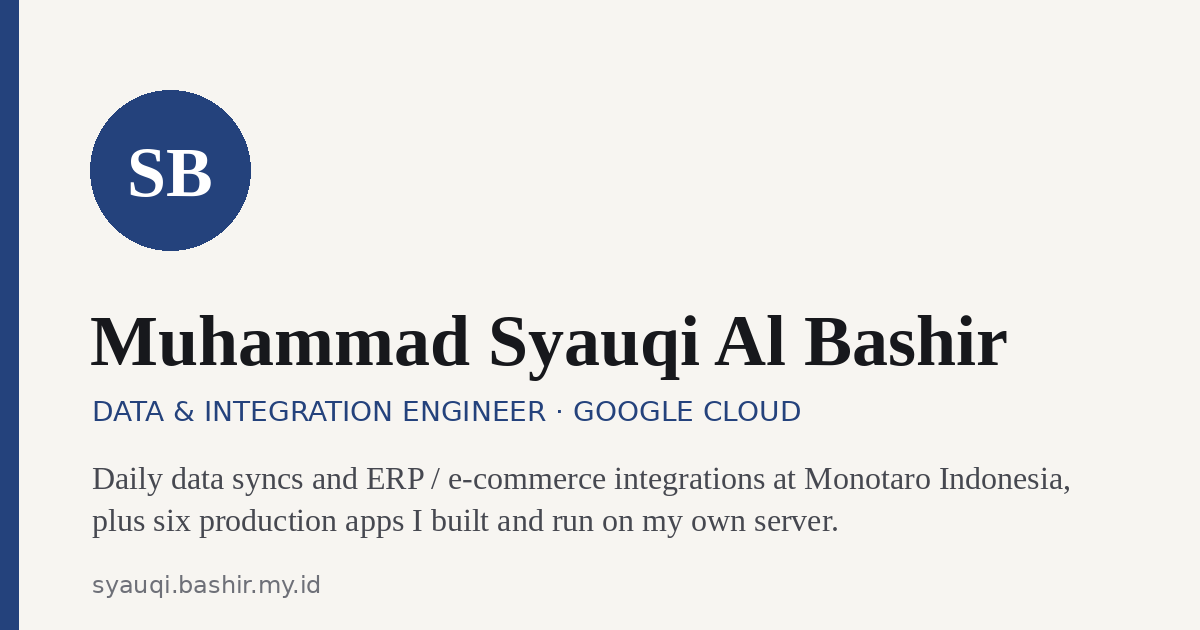
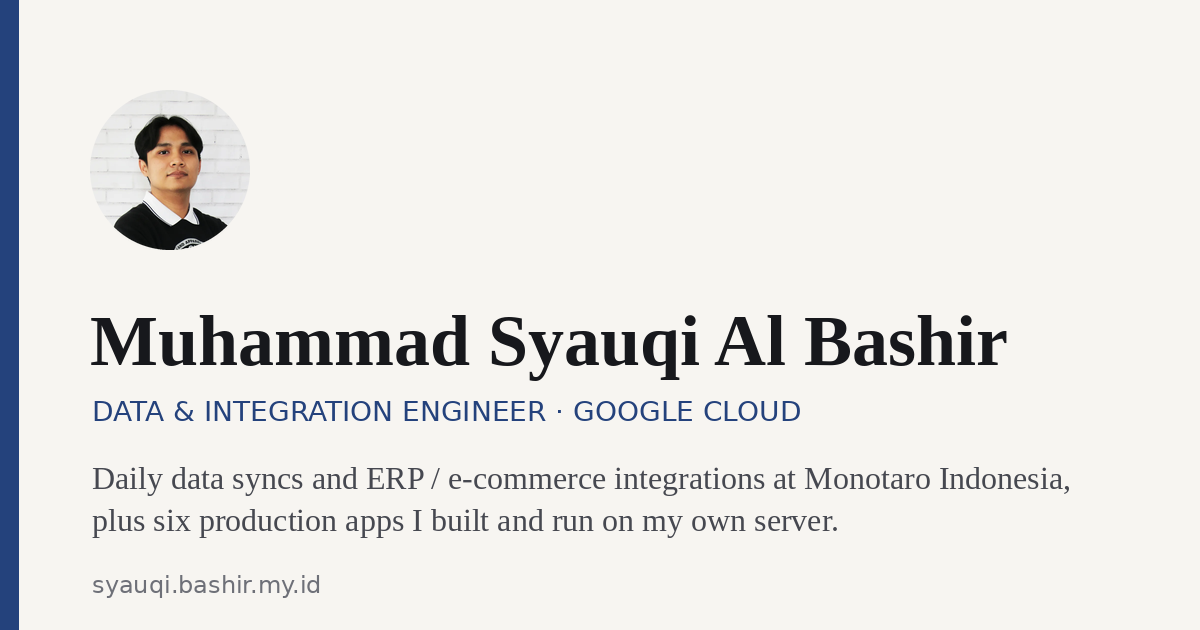
Add the owner's photo (hero + link preview); fix photo aspect ratio on phones
Claude-Session: https://claude.ai/code/session_01UjSzpANB8MGzxePHayiTj4

Changed region(s): [[0.0617, 0.1206, 0.2158, 0.4222]]

diff --git a/site/index.html b/site/index.html
@@ -18,10 +18,10 @@
 <meta name="twitter:card" content="summary_large_image">
 <link rel="icon" href="assets/favicon.svg" type="image/svg+xml">
 <link rel="apple-touch-icon" href="assets/apple-touch-icon.png">
-<link rel="stylesheet" href="assets/css/site.css?v=5ca17b1867">
-<link rel="stylesheet" href="assets/css/accents.css?v=5ca17b1867">
-<script src="assets/js/theme.js?v=5ca17b1867"></script>
-<script type="module" src="assets/js/main.js?v=5ca17b1867"></script>
+<link rel="stylesheet" href="assets/css/site.css?v=48acdcffa0">
+<link rel="stylesheet" href="assets/css/accents.css?v=48acdcffa0">
+<script src="assets/js/theme.js?v=48acdcffa0"></script>
+<script type="module" src="assets/js/main.js?v=48acdcffa0"></script>
 </head>
 <body>
 <a class="skip" href="#main">Skip to content</a>
@@ -50,7 +50,7 @@
   <a class="btn" href="https://wa.me/6282272672097" rel="noopener" target="_blank"><svg class="i" viewBox="0 0 24 24" fill="none" stroke="currentColor" stroke-width="1.8" stroke-linecap="round" stroke-linejoin="round" aria-hidden="true"><path d="M21 12a8.5 8.5 0 0 1-12.6 7.4L3 21l1.6-5.4A8.5 8.5 0 1 1 21 12z"/></svg>WhatsApp</a>
 </div>
   </div>
-  <div class="hero-pic"><span class="mono lg" aria-hidden="true">SB</span></div>
+  <div class="hero-pic"><img class="photo" src="assets/img/photo.webp" alt="Photo of Muhammad Syauqi Al Bashir" width="320" height="320"></div>
 </section>
 
 <section class="wrap numbers" aria-label="Key numbers"><ul><li><b>7–9M</b><span>records synced per day by batch jobs I built</span></li><li><b>Billions</b><span>of rupiah in sales through my SAP ↔ Magento e-catalog</span></li><li><b>6</b><span>live apps I designed and run on one 2 GB server</span></li><li><b>97.90</b><span>top score of my Hacktiv8 full-stack batch</span></li></ul></section>

diff --git a/site/assets/css/site.css b/site/assets/css/site.css
@@ -70,7 +70,7 @@ button { font: inherit; color: inherit; }
 .mono { display: inline-grid; place-items: center; border-radius: 50%; background: var(--ink); color: var(--bg); font-family: var(--serif); font-weight: 600; letter-spacing: .02em; flex: none; }
 .mono.sm { width: 32px; height: 32px; font-size: .8rem; }
 .mono.lg { width: min(280px, 62vw); aspect-ratio: 1; font-size: clamp(3rem, 9vw, 5.4rem); background: linear-gradient(150deg, var(--accent), color-mix(in srgb, var(--accent) 55%, var(--ink))); color: var(--accent-ink); box-shadow: var(--shadow-lg); }
-.photo { width: min(300px, 64vw); aspect-ratio: 1; object-fit: cover; border-radius: 50%; box-shadow: var(--shadow-lg); }
+.photo { width: min(300px, 64vw); height: auto; aspect-ratio: 1; object-fit: cover; border-radius: 50%; box-shadow: var(--shadow-lg); }
 
 /* hero */
 .hero { display: grid; grid-template-columns: 1.35fr .65fr; gap: 48px; align-items: center; padding-top: clamp(40px, 8vw, 96px); padding-bottom: 40px; }

diff --git a/site/projects/couple-suits.html b/site/projects/couple-suits.html
@@ -18,10 +18,10 @@
 <meta name="twitter:card" content="summary_large_image">
 <link rel="icon" href="../assets/favicon.svg" type="image/svg+xml">
 <link rel="apple-touch-icon" href="../assets/apple-touch-icon.png">
-<link rel="stylesheet" href="../assets/css/site.css?v=5ca17b1867">
-<link rel="stylesheet" href="../assets/css/accents.css?v=5ca17b1867">
-<script src="../assets/js/theme.js?v=5ca17b1867"></script>
-<script type="module" src="../assets/js/main.js?v=5ca17b1867"></script>
+<link rel="stylesheet" href="../assets/css/site.css?v=48acdcffa0">
+<link rel="stylesheet" href="../assets/css/accents.css?v=48acdcffa0">
+<script src="../assets/js/theme.js?v=48acdcffa0"></script>
+<script type="module" src="../assets/js/main.js?v=48acdcffa0"></script>
 </head>
 <body data-p="couple-suits">
 <a class="skip" href="#main">Skip to content</a>

diff --git a/site/projects/clipstudio.html b/site/projects/clipstudio.html
@@ -18,10 +18,10 @@
 <meta name="twitter:card" content="summary_large_image">
 <link rel="icon" href="../assets/favicon.svg" type="image/svg+xml">
 <link rel="apple-touch-icon" href="../assets/apple-touch-icon.png">
-<link rel="stylesheet" href="../assets/css/site.css?v=5ca17b1867">
-<link rel="stylesheet" href="../assets/css/accents.css?v=5ca17b1867">
-<script src="../assets/js/theme.js?v=5ca17b1867"></script>
-<script type="module" src="../assets/js/main.js?v=5ca17b1867"></script>
+<link rel="stylesheet" href="../assets/css/site.css?v=48acdcffa0">
+<link rel="stylesheet" href="../assets/css/accents.css?v=48acdcffa0">
+<script src="../assets/js/theme.js?v=48acdcffa0"></script>
+<script type="module" src="../assets/js/main.js?v=48acdcffa0"></script>
 </head>
 <body data-p="clipstudio">
 <a class="skip" href="#main">Skip to content</a>

diff --git a/site/projects/bashgames.html b/site/projects/bashgames.html
@@ -18,10 +18,10 @@
 <meta name="twitter:card" content="summary_large_image">
 <link rel="icon" href="../assets/favicon.svg" type="image/svg+xml">
 <link rel="apple-touch-icon" href="../assets/apple-touch-icon.png">
-<link rel="stylesheet" href="../assets/css/site.css?v=5ca17b1867">
-<link rel="stylesheet" href="../assets/css/accents.css?v=5ca17b1867">
-<script src="../assets/js/theme.js?v=5ca17b1867"></script>
-<script type="module" src="../assets/js/main.js?v=5ca17b1867"></script>
+<link rel="stylesheet" href="../assets/css/site.css?v=48acdcffa0">
+<link rel="stylesheet" href="../assets/css/accents.css?v=48acdcffa0">
+<script src="../assets/js/theme.js?v=48acdcffa0"></script>
+<script type="module" src="../assets/js/main.js?v=48acdcffa0"></script>
 </head>
 <body data-p="bashgames">
 <a class="skip" href="#main">Skip to content</a>

diff --git a/site/projects/jobradar.html b/site/projects/jobradar.html
@@ -18,10 +18,10 @@
 <meta name="twitter:card" content="summary_large_image">
 <link rel="icon" href="../assets/favicon.svg" type="image/svg+xml">
 <link rel="apple-touch-icon" href="../assets/apple-touch-icon.png">
-<link rel="stylesheet" href="../assets/css/site.css?v=5ca17b1867">
-<link rel="stylesheet" href="../assets/css/accents.css?v=5ca17b1867">
-<script src="../assets/js/theme.js?v=5ca17b1867"></script>
-<script type="module" src="../assets/js/main.js?v=5ca17b1867"></script>
+<link rel="stylesheet" href="../assets/css/site.css?v=48acdcffa0">
+<link rel="stylesheet" href="../assets/css/accents.css?v=48acdcffa0">
+<script src="../assets/js/theme.js?v=48acdcffa0"></script>
+<script type="module" src="../assets/js/main.js?v=48acdcffa0"></script>
 </head>
 <body data-p="jobradar">
 <a class="skip" href="#main">Skip to content</a>

diff --git a/site/projects/monotaro.html b/site/projects/monotaro.html
@@ -18,10 +18,10 @@
 <meta name="twitter:card" content="summary_large_image">
 <link rel="icon" href="../assets/favicon.svg" type="image/svg+xml">
 <link rel="apple-touch-icon" href="../assets/apple-touch-icon.png">
-<link rel="stylesheet" href="../assets/css/site.css?v=5ca17b1867">
-<link rel="stylesheet" href="../assets/css/accents.css?v=5ca17b1867">
-<script src="../assets/js/theme.js?v=5ca17b1867"></script>
-<script type="module" src="../assets/js/main.js?v=5ca17b1867"></script>
+<link rel="stylesheet" href="../assets/css/site.css?v=48acdcffa0">
+<link rel="stylesheet" href="../assets/css/accents.css?v=48acdcffa0">
+<script src="../assets/js/theme.js?v=48acdcffa0"></script>
+<script type="module" src="../assets/js/main.js?v=48acdcffa0"></script>
 </head>
 <body data-p="monotaro">
 <a class="skip" href="#main">Skip to content</a>

diff --git a/site/projects/platform.html b/site/projects/platform.html
@@ -18,10 +18,10 @@
 <meta name="twitter:card" content="summary_large_image">
 <link rel="icon" href="../assets/favicon.svg" type="image/svg+xml">
 <link rel="apple-touch-icon" href="../assets/apple-touch-icon.png">
-<link rel="stylesheet" href="../assets/css/site.css?v=5ca17b1867">
-<link rel="stylesheet" href="../assets/css/accents.css?v=5ca17b1867">
-<script src="../assets/js/theme.js?v=5ca17b1867"></script>
-<script type="module" src="../assets/js/main.js?v=5ca17b1867"></script>
+<link rel="stylesheet" href="../assets/css/site.css?v=48acdcffa0">
+<link rel="stylesheet" href="../assets/css/accents.css?v=48acdcffa0">
+<script src="../assets/js/theme.js?v=48acdcffa0"></script>
+<script type="module" src="../assets/js/main.js?v=48acdcffa0"></script>
 </head>
 <body data-p="platform">
 <a class="skip" href="#main">Skip to content</a>

diff --git a/site/projects/finance.html b/site/projects/finance.html
@@ -18,10 +18,10 @@
 <meta name="twitter:card" content="summary_large_image">
 <link rel="icon" href="../assets/favicon.svg" type="image/svg+xml">
 <link rel="apple-touch-icon" href="../assets/apple-touch-icon.png">
-<link rel="stylesheet" href="../assets/css/site.css?v=5ca17b1867">
-<link rel="stylesheet" href="../assets/css/accents.css?v=5ca17b1867">
-<script src="../assets/js/theme.js?v=5ca17b1867"></script>
-<script type="module" src="../assets/js/main.js?v=5ca17b1867"></script>
+<link rel="stylesheet" href="../assets/css/site.css?v=48acdcffa0">
+<link rel="stylesheet" href="../assets/css/accents.css?v=48acdcffa0">
+<script src="../assets/js/theme.js?v=48acdcffa0"></script>
+<script type="module" src="../assets/js/main.js?v=48acdcffa0"></script>
 </head>
 <body data-p="finance">
 <a class="skip" href="#main">Skip to content</a>

diff --git a/site/projects/lyrsync.html b/site/projects/lyrsync.html
@@ -18,10 +18,10 @@
 <meta name="twitter:card" content="summary_large_image">
 <link rel="icon" href="../assets/favicon.svg" type="image/svg+xml">
 <link rel="apple-touch-icon" href="../assets/apple-touch-icon.png">
-<link rel="stylesheet" href="../assets/css/site.css?v=5ca17b1867">
-<link rel="stylesheet" href="../assets/css/accents.css?v=5ca17b1867">
-<script src="../assets/js/theme.js?v=5ca17b1867"></script>
-<script type="module" src="../assets/js/main.js?v=5ca17b1867"></script>
+<link rel="stylesheet" href="../assets/css/site.css?v=48acdcffa0">
+<link rel="stylesheet" href="../assets/css/accents.css?v=48acdcffa0">
+<script src="../assets/js/theme.js?v=48acdcffa0"></script>
+<script type="module" src="../assets/js/main.js?v=48acdcffa0"></script>
 </head>
 <body data-p="lyrsync">
 <a class="skip" href="#main">Skip to content</a>

diff --git a/site/404.html b/site/404.html
@@ -18,10 +18,10 @@
 <meta name="twitter:card" content="summary_large_image">
 <link rel="icon" href="/assets/favicon.svg" type="image/svg+xml">
 <link rel="apple-touch-icon" href="/assets/apple-touch-icon.png">
-<link rel="stylesheet" href="/assets/css/site.css?v=5ca17b1867">
-<link rel="stylesheet" href="/assets/css/accents.css?v=5ca17b1867">
-<script src="/assets/js/theme.js?v=5ca17b1867"></script>
-<script type="module" src="/assets/js/main.js?v=5ca17b1867"></script>
+<link rel="stylesheet" href="/assets/css/site.css?v=48acdcffa0">
+<link rel="stylesheet" href="/assets/css/accents.css?v=48acdcffa0">
+<script src="/assets/js/theme.js?v=48acdcffa0"></script>
+<script type="module" src="/assets/js/main.js?v=48acdcffa0"></script>
 </head>
 <body>
 <a class="skip" href="#main">Skip to content</a>

diff --git a/tools/make_icons.py b/tools/make_icons.py
@@ -29,8 +29,14 @@ W, H = 1200, 630
 og = Image.new("RGB", (W, H), PAPER)
 d = ImageDraw.Draw(og)
 d.rectangle([0, 0, 18, H], fill=NAVY)
-d.ellipse([90, 90, 250, 250], fill=NAVY)
-d.text((170, 172), "SB", font=ImageFont.truetype(SERIF, 70), fill="white", anchor="mm")
+photo = A / "img" / "photo.webp"
+if photo.exists():  # the owner's photo in a circle; the SB monogram until then
+    ph = Image.open(photo).convert("RGB").resize((160, 160), Image.LANCZOS)
+    mask = Image.new("L", (640, 640), 0); ImageDraw.Draw(mask).ellipse((0, 0, 639, 639), fill=255)
+    og.paste(ph, (90, 90), mask.resize((160, 160), Image.LANCZOS))
+else:
+    d.ellipse([90, 90, 250, 250], fill=NAVY)
+    d.text((170, 172), "SB", font=ImageFont.truetype(SERIF, 70), fill="white", anchor="mm")
 d.text((90, 300), "Muhammad Syauqi Al Bashir", font=ImageFont.truetype(SERIF, 72), fill=INK)
 d.text((92, 395), "DATA & INTEGRATION ENGINEER · GOOGLE CLOUD", font=ImageFont.truetype(SANS, 28), fill=NAVY)
 d.text((92, 460), "Daily data syncs and ERP / e-commerce integrations at Monotaro Indonesia,", font=ImageFont.truetype(SERIF_R, 32), fill=(70, 72, 80))
